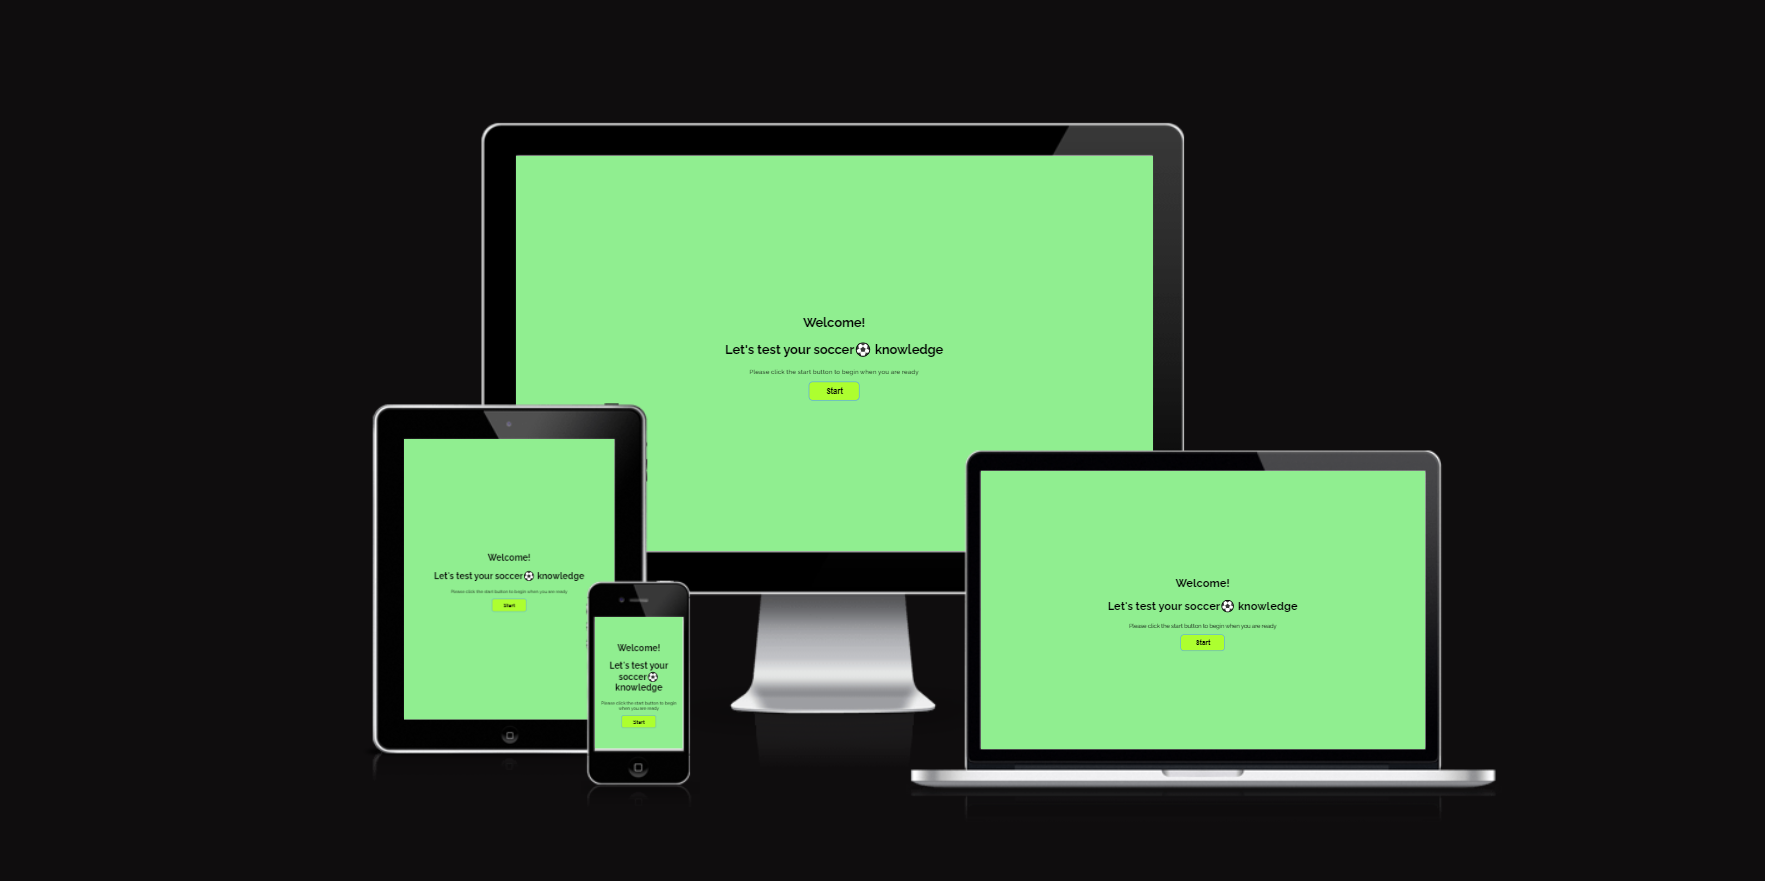
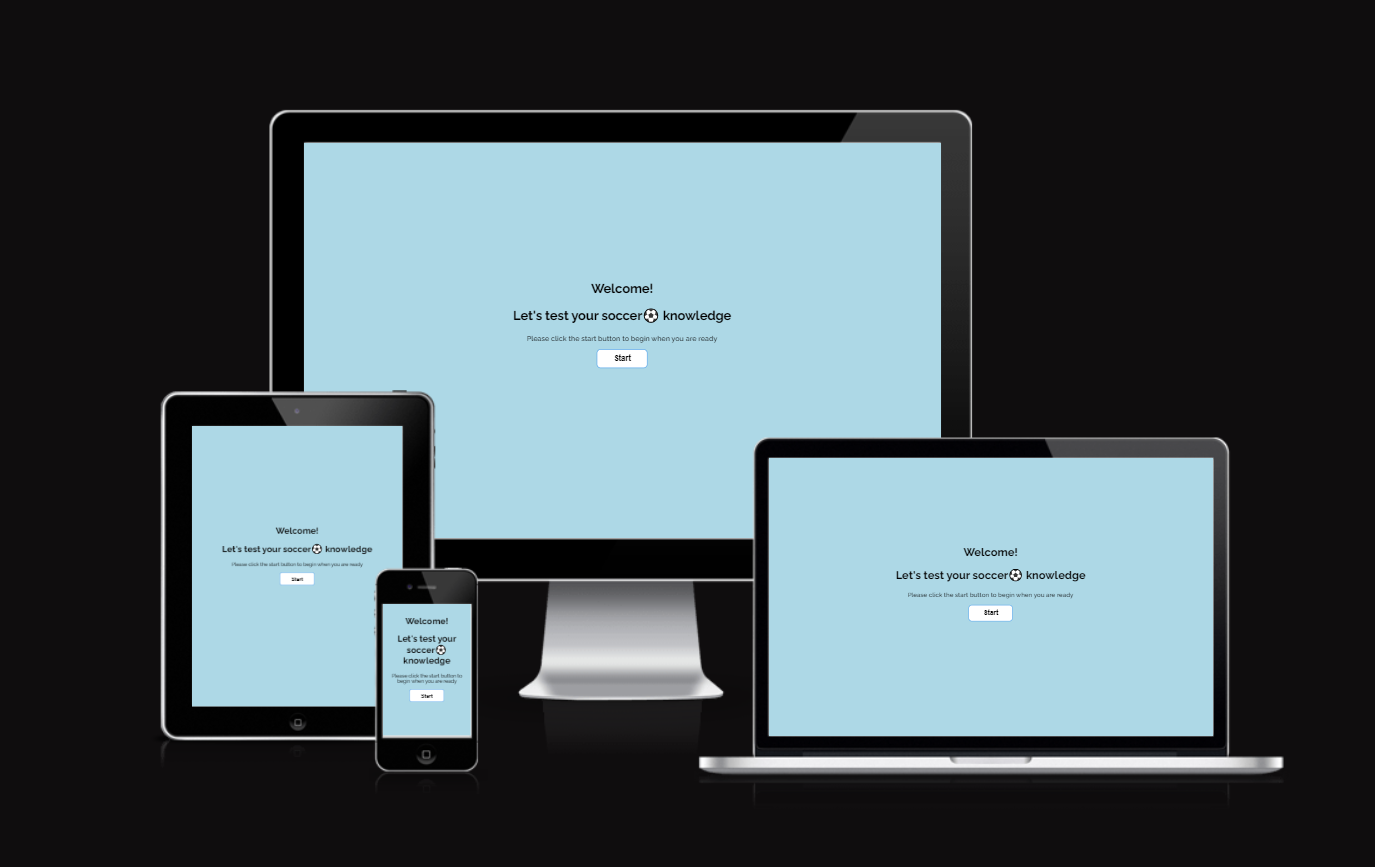
Add media query for larger screens, edit opti and restyon-btn eledd media query for large screens, edit and restyle option-btn elements

diff --git a/assets/css/style.css b/assets/css/style.css
@@ -6,7 +6,8 @@
 }
 
 /*General styling*/
-html, body {
+html,
+body {
     height: 100%;
     margin: 0;
     padding: 0;
@@ -14,11 +15,12 @@ html, body {
     justify-content: center;
     align-items: center;
     text-align: center;
-    background: lightgreen;
+    background: lightblue;
     font-family: "Raleway", sans-serif;
 }
 
-h1, h2 {
+h1,
+h2 {
     font-size: 2rem;
 }
 
@@ -29,10 +31,12 @@ h1, h2 {
     justify-content: center;
     align-items: center;
     padding: 1rem;
+    margin-top: -100px;
 }
 
 #welcome-page p {
     font-weight: 500;
+    font-size: 18px;
 }
 
 #start-btn {
@@ -41,7 +45,7 @@ h1, h2 {
     width: 8rem;
     border: 0.1rem solid #56a5eb;
     color: black;
-    background-color: #eeff2fc4;
+    background-color: white;
     font-weight: 600;
     border-radius: 10px;
     cursor: pointer;
@@ -89,10 +93,10 @@ h1, h2 {
     background: white;
     color: black;
     height: 50px;
-    font-size: 0.8em;
+    font-size: 0.7em;
     font-weight: 700;
     border: 1px solid #222;
-    padding: 5px;
+    padding: 3px;
     margin: 3px 0;
     border-radius: 4px;
     cursor: pointer;
@@ -114,9 +118,8 @@ h1, h2 {
 }
 
 .scores {
-    display: inline-block;
     padding: 2px;
-    font-size: 1.2rem; 
+    font-size: 1rem;
     font-weight: 500;
 }
 
@@ -149,3 +152,16 @@ h1, h2 {
     display: none;
 }
 
+@media screen and (min-width:768px) {
+    .option-btn {
+        font-size: 1.4em;
+        padding: 6px;
+    }
+
+    .scores {
+        display: inline-block;
+        padding: 3px;
+        font-size: 1.2rem;
+        font-weight: 500;
+    }
+}

diff --git a/assets/js/script.js b/assets/js/script.js
@@ -226,7 +226,7 @@ function checkAnswer() {
         message.style.color = "red";
         incrementWrongScore();
     }
-    setTimeout(loadQuestion, 10000);
+    setTimeout(loadQuestion, 1500);
 }
 
 function incrementScore() {

diff --git a/README.md b/README.md
@@ -11,6 +11,7 @@
 <h3>Game Developer</h3>
 <ul>
 <li>As the game developer, i want to be able to create a soccer quiz game every football lover can enjoy irrespective of age.</li>
+<li>As the game developer, i want to be able to welcome users to my game app and give them to opportunity to begin when they are ready.</li>
 <li>As the game developer, i want to be able to test football lovers' knowledge of some of their favorite players.</li>
 <li>As the game developer, i want to be able to provide players, answer options to select the right answer from.</li>
 <li>As the game developer, i want to be able to immediately notify players of their correctly and incorrectly picked answers.</li>
@@ -26,7 +27,7 @@
 <p>In achieving the user and app developer goals, i have created a picture/name pairing quiz game that requires players to identify a randomly generated player's image by name from five(5) provided name options while also using the feedback and scoring features to enhance users' experience.</p>
 
 <h3>The Feedback Feature</h3>
-<img src="docs/readme.images/jpeg-optimizer_HomePage.PNG" alt="Screen shot of the 'Home page' of Sirjays Car Rental project">
+<img src="docs/testing.images/Capture.PNG" alt="Screen shot of the 'Home page' of Sirjays Car Rental project">
 <ul>
 <li>The Home page section clearly details the essence and purpose of the company in the header.</li>
 <li>A navigation section to access the pages of the website is nested in the header of the homepage.</li>
